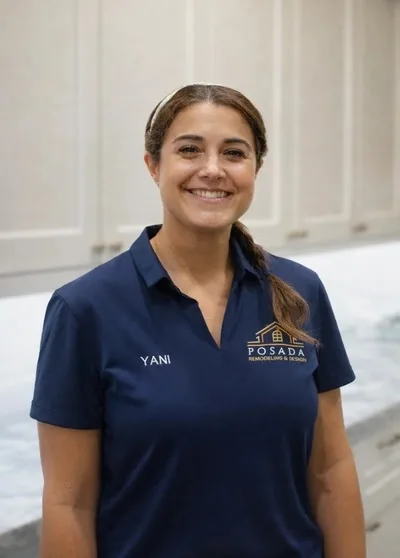
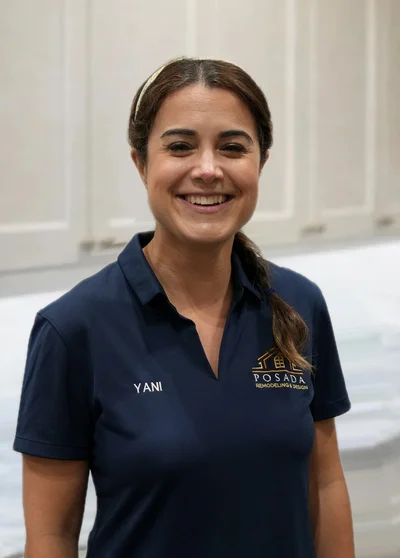
Replace Yani's team photo with the real camera headshot

diff --git a/about.html b/about.html
@@ -232,7 +232,7 @@
 <div class="team" style="margin-top:0;padding-top:0;border-top:0">
 <div class="member"><img src="images/mike-posada-owner-founder-headshot.webp" srcset="images/mike-posada-owner-founder-headshot-800.webp 427w, images/mike-posada-owner-founder-headshot.webp 427w" sizes="(max-width: 880px) 50vw, 25vw" width="427" height="640" alt="Mike Posada, owner and founder of Posada Remodeling and Design" loading="lazy" decoding="async"><div class="who">Mike Posada</div><div class="role">Owner &amp; Founder</div></div>
 <div class="member"><div class="ph"><img src="images/josh-castillo-project-manager-posada-remodeling.webp" srcset="images/josh-castillo-project-manager-posada-remodeling-800.webp 400w, images/josh-castillo-project-manager-posada-remodeling.webp 400w" sizes="(max-width: 880px) 50vw, 25vw" width="400" height="599" alt="Josh Castillo, project manager at Posada Remodeling and Design" style="object-position:38% 0%;transform:scale(1.2);transform-origin:50% 35%;clip-path:inset(5.834% 8.334% 10.834% 8.334%);filter:saturate(.82) brightness(.96)" loading="lazy" decoding="async"></div><div class="who">Josh Castillo</div><div class="role">Project Manager</div></div>
-<div class="member"><img src="images/yani-tejera-interior-design-advisor-posada-remodeling.webp" srcset="images/yani-tejera-interior-design-advisor-posada-remodeling-800.webp 400w, images/yani-tejera-interior-design-advisor-posada-remodeling.webp 400w" sizes="(max-width: 880px) 50vw, 25vw" width="400" height="558" alt="Yani Tejera, interior design advisor at Posada Remodeling and Design" loading="lazy" decoding="async"><div class="who">Yani Tejera</div><div class="role">Interior Design Advisor</div></div>
+<div class="member"><img src="images/yani-tejera-interior-design-advisor-posada-remodeling.webp" srcset="images/yani-tejera-interior-design-advisor-posada-remodeling-800.webp 400w, images/yani-tejera-interior-design-advisor-posada-remodeling.webp 800w" sizes="(max-width: 880px) 50vw, 25vw" width="400" height="558" alt="Yani Tejera, interior design advisor at Posada Remodeling and Design" loading="lazy" decoding="async"><div class="who">Yani Tejera</div><div class="role">Interior Design Advisor</div></div>
 <div class="member"><img src="images/manny-tejera-vice-president-posada-remodeling.webp" srcset="images/manny-tejera-vice-president-posada-remodeling-800.webp 400w, images/manny-tejera-vice-president-posada-remodeling.webp 400w" sizes="(max-width: 880px) 50vw, 25vw" width="400" height="558" alt="Manny Tejera, vice president at Posada Remodeling and Design" loading="lazy" decoding="async"><div class="who">Manny Tejera</div><div class="role">Vice President</div></div>
 </div>
 <div style="margin-top:48px"><a class="textlink" href="our-work.html">See the work this team has finished</a></div>

diff --git a/index.html b/index.html
@@ -285,7 +285,7 @@
 <div class="team">
 <div class="member"><img src="images/mike-posada-owner-founder-headshot.webp" srcset="images/mike-posada-owner-founder-headshot-800.webp 427w, images/mike-posada-owner-founder-headshot.webp 427w" sizes="(max-width: 880px) 50vw, 25vw" width="427" height="640" alt="Mike Posada, owner and founder of Posada Remodeling and Design" loading="lazy" decoding="async"><div class="who">Mike Posada</div><div class="role">Owner &amp; Founder</div></div>
 <div class="member"><img src="images/josh-castillo-project-manager-posada-remodeling.webp" srcset="images/josh-castillo-project-manager-posada-remodeling-800.webp 400w, images/josh-castillo-project-manager-posada-remodeling.webp 400w" sizes="(max-width: 880px) 50vw, 25vw" width="400" height="599" alt="Josh Castillo, project manager at Posada Remodeling and Design" loading="lazy" decoding="async" style="object-position:38% 0%;transform:scale(1.2);transform-origin:50% 35%;clip-path:inset(5.834% 8.334% 10.834% 8.334%);filter:saturate(.82) brightness(.96)"><div class="who">Josh Castillo</div><div class="role">Project Manager</div></div>
-<div class="member"><img src="images/yani-tejera-interior-design-advisor-posada-remodeling.webp" srcset="images/yani-tejera-interior-design-advisor-posada-remodeling-800.webp 400w, images/yani-tejera-interior-design-advisor-posada-remodeling.webp 400w" sizes="(max-width: 880px) 50vw, 25vw" width="400" height="558" alt="Yani Tejera, interior design advisor at Posada Remodeling and Design" loading="lazy" decoding="async"><div class="who">Yani Tejera</div><div class="role">Interior <span style="white-space:nowrap">Design Advisor</span></div></div>
+<div class="member"><img src="images/yani-tejera-interior-design-advisor-posada-remodeling.webp" srcset="images/yani-tejera-interior-design-advisor-posada-remodeling-800.webp 400w, images/yani-tejera-interior-design-advisor-posada-remodeling.webp 800w" sizes="(max-width: 880px) 50vw, 25vw" width="400" height="558" alt="Yani Tejera, interior design advisor at Posada Remodeling and Design" loading="lazy" decoding="async"><div class="who">Yani Tejera</div><div class="role">Interior <span style="white-space:nowrap">Design Advisor</span></div></div>
 <div class="member"><img src="images/manny-tejera-vice-president-posada-remodeling.webp" srcset="images/manny-tejera-vice-president-posada-remodeling-800.webp 400w, images/manny-tejera-vice-president-posada-remodeling.webp 400w" sizes="(max-width: 880px) 50vw, 25vw" width="400" height="558" alt="Manny Tejera, vice president at Posada Remodeling and Design" loading="lazy" decoding="async"><div class="who">Manny Tejera</div><div class="role">Vice President</div></div>
 </div>
 <div style="margin-top:36px"><a class="textlink" href="about.html">Meet the whole team</a></div>
